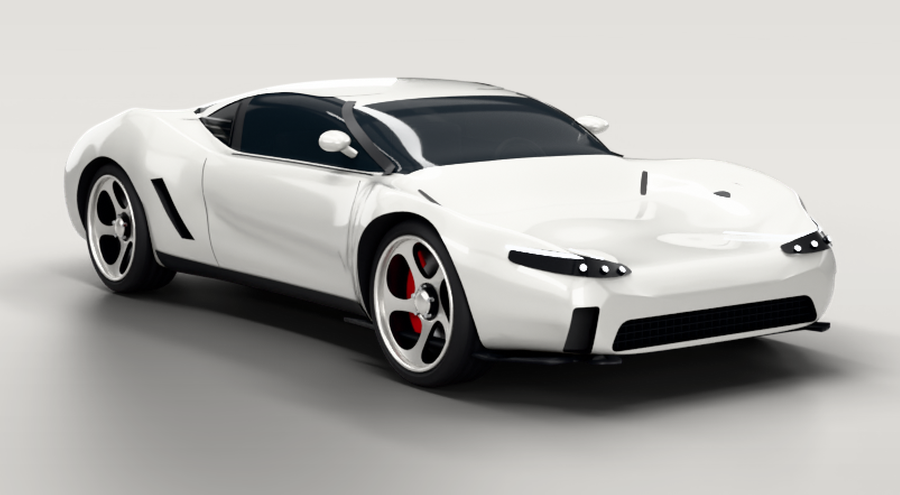
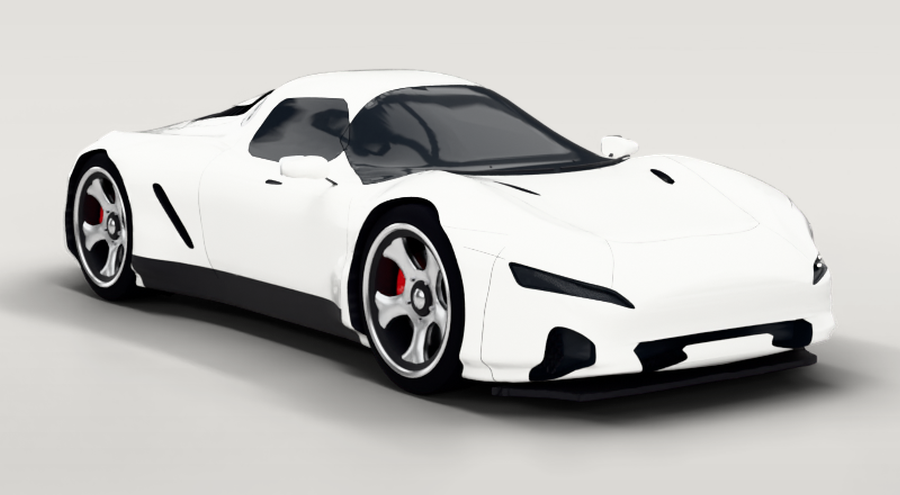
Re-render the GT picker previews from the carved body
The car-select card still showed the old GT. The front, rear and side previews are rendered from the
game GLB with the fleet's studio lights and the GT's fitted cameras (render_preview.py), then laid on
the backdrop by tools/make-thumbs.py. The softbox strips are kept out of reflections: they drew white
loops in the curved glass.

diff --git a/design/vehicles/gt-v4-source/hybrid/render_preview.py b/design/vehicles/gt-v4-source/hybrid/render_preview.py
@@ -1,0 +1,109 @@
+# blender --factory-startup -b -P render_preview.py -- <game.glb> <out dir> <repo> [samples]
+# Picker previews for a game GLB the way blender/vertigo_v3.py render_views() makes them: its studio() lights and
+# world, its sheet_look() finish (flake, lit lamps, dark shell inside), the GT's fitted cameras (blender/v3_fit),
+# lens fitted until the box spans 88% of the frame. tools/make-thumbs.py then lays them on the backdrop.
+import bpy, sys, os, ast, math, json
+from mathutils import Vector
+from bpy_extras.object_utils import world_to_camera_view
+
+glb, out_dir, repo = sys.argv[sys.argv.index('--') + 1:][:3]
+samples = int(sys.argv[sys.argv.index('--') + 4]) if len(sys.argv) > sys.argv.index('--') + 4 else 160
+sc = bpy.context.scene
+for o in list(bpy.data.objects): bpy.data.objects.remove(o, do_unlink=True)
+bpy.ops.import_scene.gltf(filepath=glb)
+meshes = [o for o in sc.objects if o.type == 'MESH']
+
+
+def grab(path, names):
+    src = open(path, encoding='utf-8').read()
+    return '\n\n'.join(ast.get_source_segment(src, n) for n in ast.parse(src).body if isinstance(n, ast.FunctionDef) and n.name in names)
+
+
+g = {'bpy': bpy, 'Vector': Vector, 'math': math, 'os': os}
+exec(grab(os.path.join(repo, 'blender', 'vertigo_v3.py'), {'studio', 'bsdf'}), g)
+# studio() takes the floor material from F['material'] unless it exists: make it here with the same values
+fm = bpy.data.materials.new('V3 Floor'); fm.use_nodes = True
+p = next(n for n in fm.node_tree.nodes if n.type == 'BSDF_PRINCIPLED')
+p.inputs['Base Color'].default_value = (0.28, 0.275, 0.27, 1); p.inputs['Roughness'].default_value = 0.55
+if sc.world is None: sc.world = bpy.data.worlds.new('World')
+g['studio']()
+sc.cycles.device = 'CPU'
+sc.cycles.samples = samples
+
+
+def bsdf(m): return next(n for n in m.node_tree.nodes if n.type == 'BSDF_PRINCIPLED')
+
+
+# ---- sheet_look(): flake + glassy clearcoat on the paint, dark inside of the shell, lit lamps
+paint = bpy.data.materials['GT Paint']
+nt = paint.node_tree; pp = bsdf(paint); out = next(n for n in nt.nodes if n.type == 'OUTPUT_MATERIAL')
+tex = nt.nodes.new('ShaderNodeTexNoise'); tex.inputs['Scale'].default_value = 2500.0; tex.inputs['Detail'].default_value = 0.0
+bump = nt.nodes.new('ShaderNodeBump'); bump.inputs['Strength'].default_value = 0.12
+nt.links.new(tex.outputs['Fac'], bump.inputs['Height']); nt.links.new(bump.outputs['Normal'], pp.inputs['Normal'])
+pp.inputs['Coat Weight'].default_value = max(pp.inputs['Coat Weight'].default_value, 1.0)
+pp.inputs['Coat Roughness'].default_value = 0.012
+geo = nt.nodes.new('ShaderNodeNewGeometry'); dark = nt.nodes.new('ShaderNodeBsdfDiffuse')
+dark.inputs['Color'].default_value = (0.012, 0.012, 0.013, 1)
+mix = nt.nodes.new('ShaderNodeMixShader')
+nt.links.new(geo.outputs['Backfacing'], mix.inputs[0]); nt.links.new(pp.outputs[0], mix.inputs[1])
+nt.links.new(dark.outputs[0], mix.inputs[2]); nt.links.new(mix.outputs[0], out.inputs['Surface'])
+for name, k, col in (('HeadLamp LED', 14.0, (1.0, 0.97, 0.92, 1)), ('TailLamp', 9.0, (1.0, 0.02, 0.02, 1)),
+                     ('CenterBrakeLamp', 5.0, (1.0, 0.02, 0.02, 1))):
+    m = bpy.data.materials.get(name)
+    if not m: print('NO MATERIAL', name); continue
+    q = bsdf(m); q.inputs['Emission Color'].default_value = col; q.inputs['Emission Strength'].default_value = k
+
+# ---- cameras
+cam = bpy.data.objects.new('Camera', bpy.data.cameras.new('Camera')); sc.collection.objects.link(cam); sc.camera = cam
+pts = [o.matrix_world @ Vector(c) for o in meshes for c in o.bound_box]
+lo = Vector((min(p.x for p in pts), min(p.y for p in pts), min(p.z for p in pts)))
+hi = Vector((max(p.x for p in pts), max(p.y for p in pts), max(p.z for p in pts)))
+centre = (lo + hi) / 2
+corners = [Vector((x, y, z)) for x in (lo.x, hi.x) for y in (lo.y, hi.y) for z in (lo.z, hi.z)]
+fitted = json.load(open(os.path.join(repo, 'blender', 'v3_fit', 'vertigo-gt.json')))['cams']
+print('BOX', tuple(round(v, 3) for v in lo), tuple(round(v, 3) for v in hi))
+
+
+def look(loc, target):
+    cam.location = loc; cam.rotation_euler = (Vector(target) - Vector(loc)).to_track_quat('-Z', 'Y').to_euler()
+
+
+def spread():
+    bpy.context.view_layer.update()
+    uv = [world_to_camera_view(sc, cam, p) for p in corners]
+    return uv, max(max(p.x for p in uv) - min(p.x for p in uv), (max(p.y for p in uv) - min(p.y for p in uv)) * 0.97)
+
+
+def centre_shift(rw, rh):
+    cam.data.shift_x = cam.data.shift_y = 0.0
+    uv, _ = spread()
+    cam.data.shift_x = (max(p.x for p in uv) + min(p.x for p in uv)) / 2 - 0.5
+    cam.data.shift_y = ((max(p.y for p in uv) + min(p.y for p in uv)) / 2 - 0.5) * rh / rw
+
+
+# the softboxes' thin strips drew bright loops in the curved glass (read as a white frame in the windshield): the
+# lights stay out of reflections; the world's glossy studio still lays its panels on paint and glass
+for o in sc.objects:
+    if o.type == 'LIGHT': o.visible_glossy = False
+os.makedirs(out_dir, exist_ok=True)
+for view in ('front', 'rear', 'side'):
+    cam.data.type = 'PERSP'; cam.data.sensor_fit = 'HORIZONTAL'; cam.data.sensor_width = 36
+    cam.data.shift_x = cam.data.shift_y = 0.0
+    if view in fitted:                                   # the fitted product camera, zoomed to frame the car
+        rw, rh = 900, 520
+        sc.render.resolution_x, sc.render.resolution_y, sc.render.resolution_percentage = rw, rh, 100
+        c = fitted[view]; look(Vector(c[:3]), Vector(c[3:6])); cam.data.lens = 50.0
+        for _ in range(8):
+            _, s = spread(); cam.data.lens *= 0.88 / s
+    else:                                                # side: near-orthographic 200 mm, pulled until 88%
+        rw, rh = 1800, 560
+        sc.render.resolution_x, sc.render.resolution_y, sc.render.resolution_percentage = rw, rh, 100
+        cam.data.lens = 200; target = centre + Vector((0, 0, -0.08)); dist = 8.0
+        for _ in range(12):
+            pos = centre + Vector((0, 1, 0)) * dist; pos.z = 0.62; look(pos, target)
+            _, s = spread(); dist *= s / 0.88
+    centre_shift(rw, rh)
+    sc.render.filepath = os.path.join(out_dir, f'vertigo-gt_{view}.png')
+    bpy.ops.render.render(write_still=True)
+    print('RENDERED', sc.render.filepath, flush=True)
+print('DONE')
